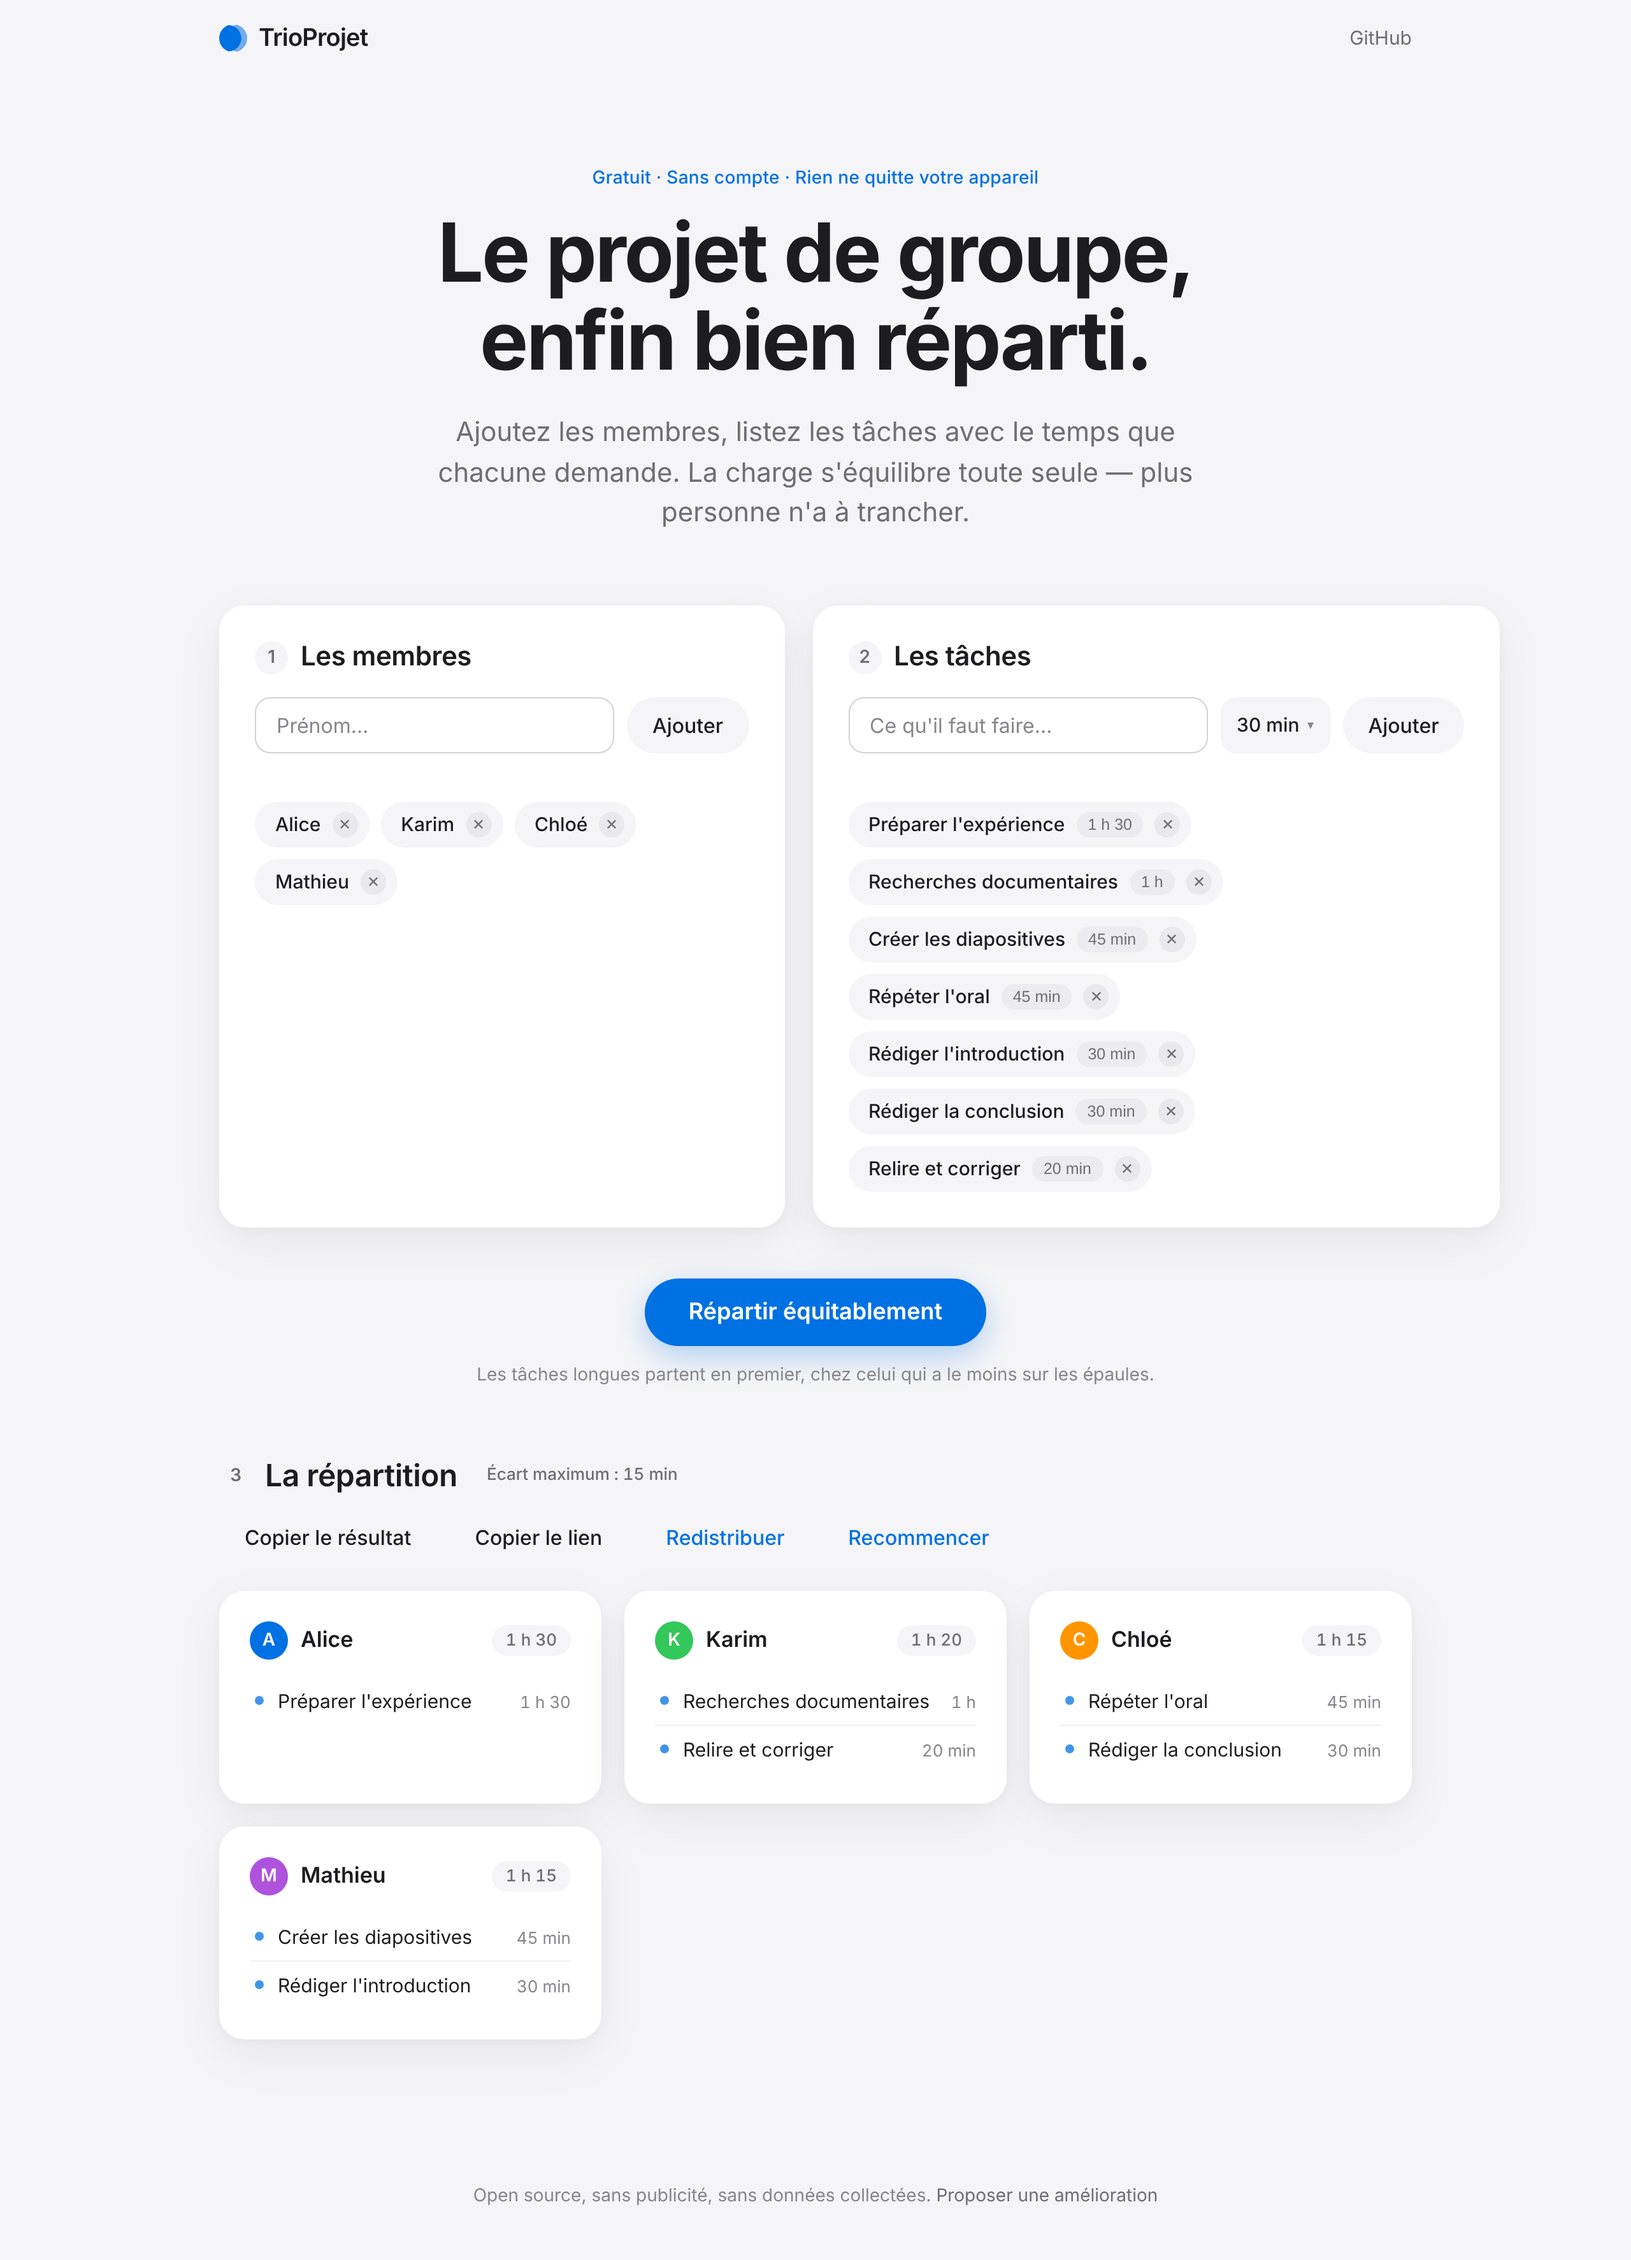
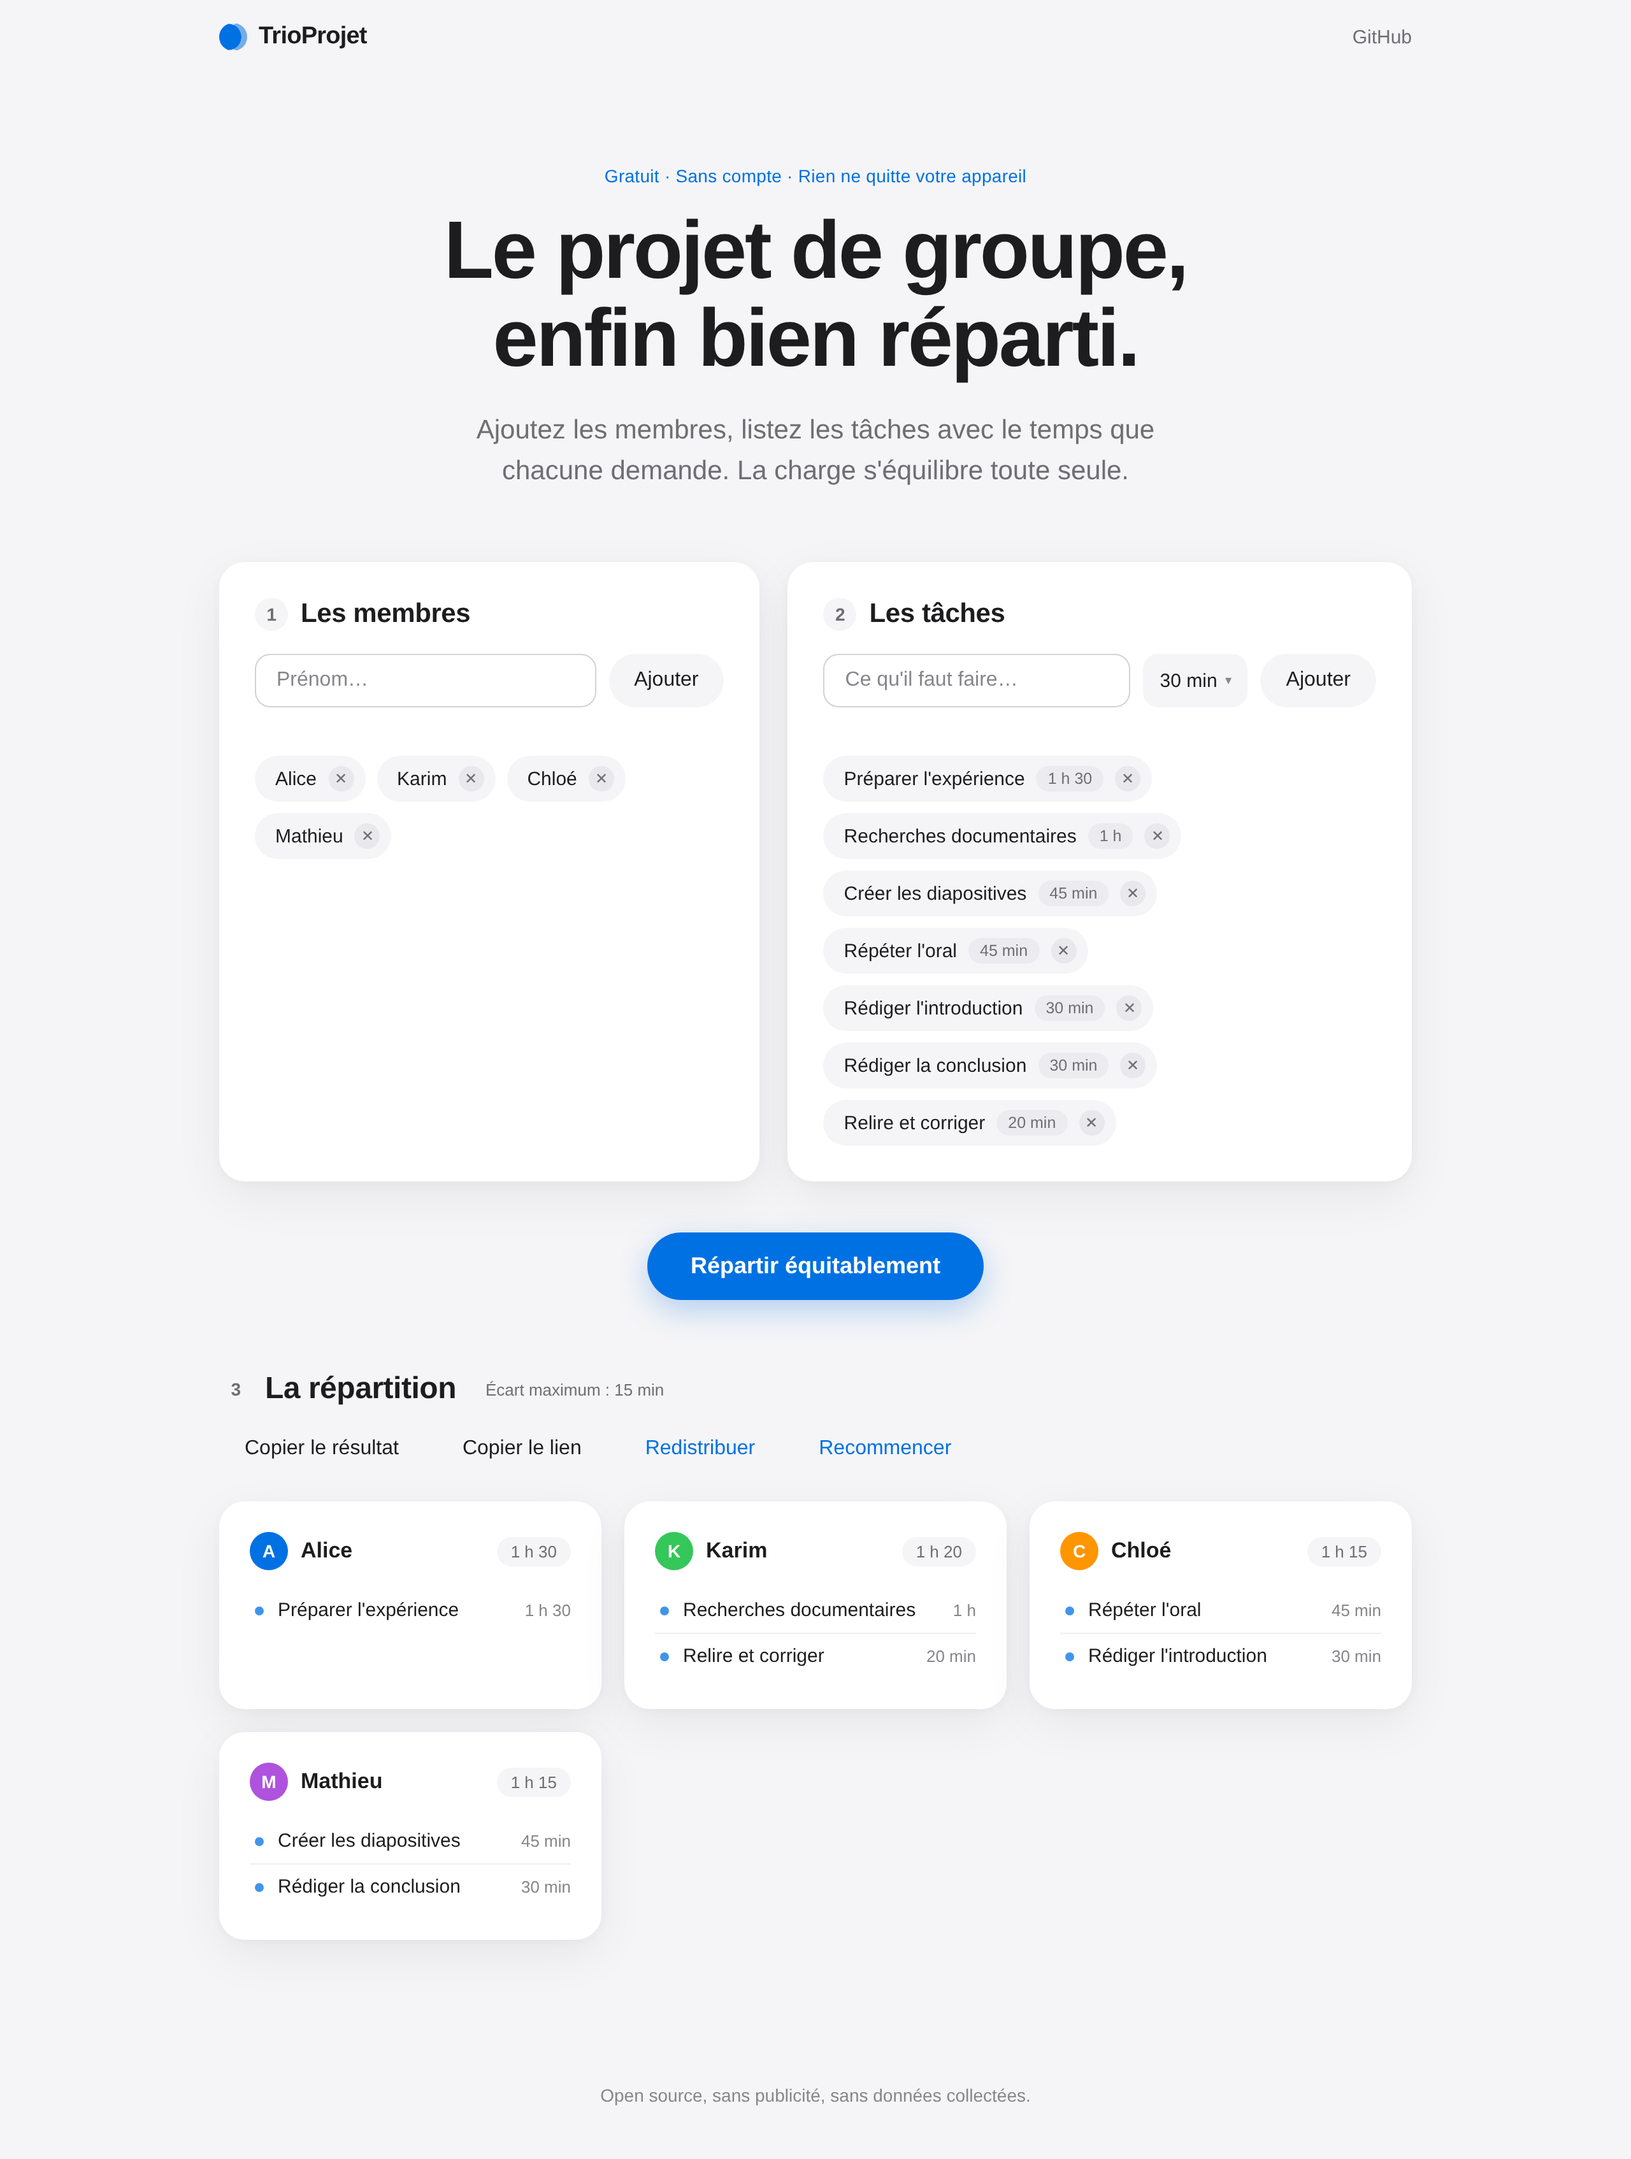
Allègement des textes : sous-titre épuré, retrait des mentions superflues

diff --git a/index.html b/index.html
@@ -29,7 +29,7 @@
       <h1>Le projet de groupe,<br>enfin bien réparti.</h1>
       <p class="subtitle">
         Ajoutez les membres, listez les tâches avec le temps que chacune demande.
-        La charge s'équilibre toute seule — plus personne n'a à trancher.
+        La charge s'équilibre toute seule.
       </p>
     </section>
 
@@ -65,7 +65,6 @@
 
     <section class="action">
       <button class="btn btn-primary" id="btn-repartir">Répartir équitablement</button>
-      <p class="hint">Les tâches longues partent en premier, chez celui qui a le moins sur les épaules.</p>
     </section>
 
     <section class="result" id="resultat" hidden aria-live="polite">
@@ -85,10 +84,7 @@
   </main>
 
   <footer class="footer">
-    <p>
-      Open source, sans publicité, sans données collectées.
-      <a href="https://github.com/StrongBug999/trioprojet" target="_blank" rel="noopener">Proposer une amélioration</a>
-    </p>
+    <p>Open source, sans publicité, sans données collectées.</p>
   </footer>
 
   <div class="toast" id="toast" role="status"></div>

diff --git a/style.css b/style.css
@@ -451,12 +451,6 @@ main { flex: 1; width: 100%; max-width: 980px; margin: 0 auto; padding: 0 22px 8
 
 .action { text-align: center; padding: 40px 0 8px; }
 
-.hint {
-  font-size: 14px;
-  color: var(--text-tertiary);
-  margin-top: 14px;
-}
-
 /* ---------- Résultat ---------- */
 
 .result { padding-top: 48px; }
@@ -590,9 +584,6 @@ main { flex: 1; width: 100%; max-width: 980px; margin: 0 auto; padding: 0 22px 8
   font-size: 14px;
   color: var(--text-tertiary);
 }
-
-.footer a { color: var(--text-secondary); text-decoration: none; }
-.footer a:hover { color: var(--accent); text-decoration: underline; }
 
 /* ---------- Toast ---------- */
 
